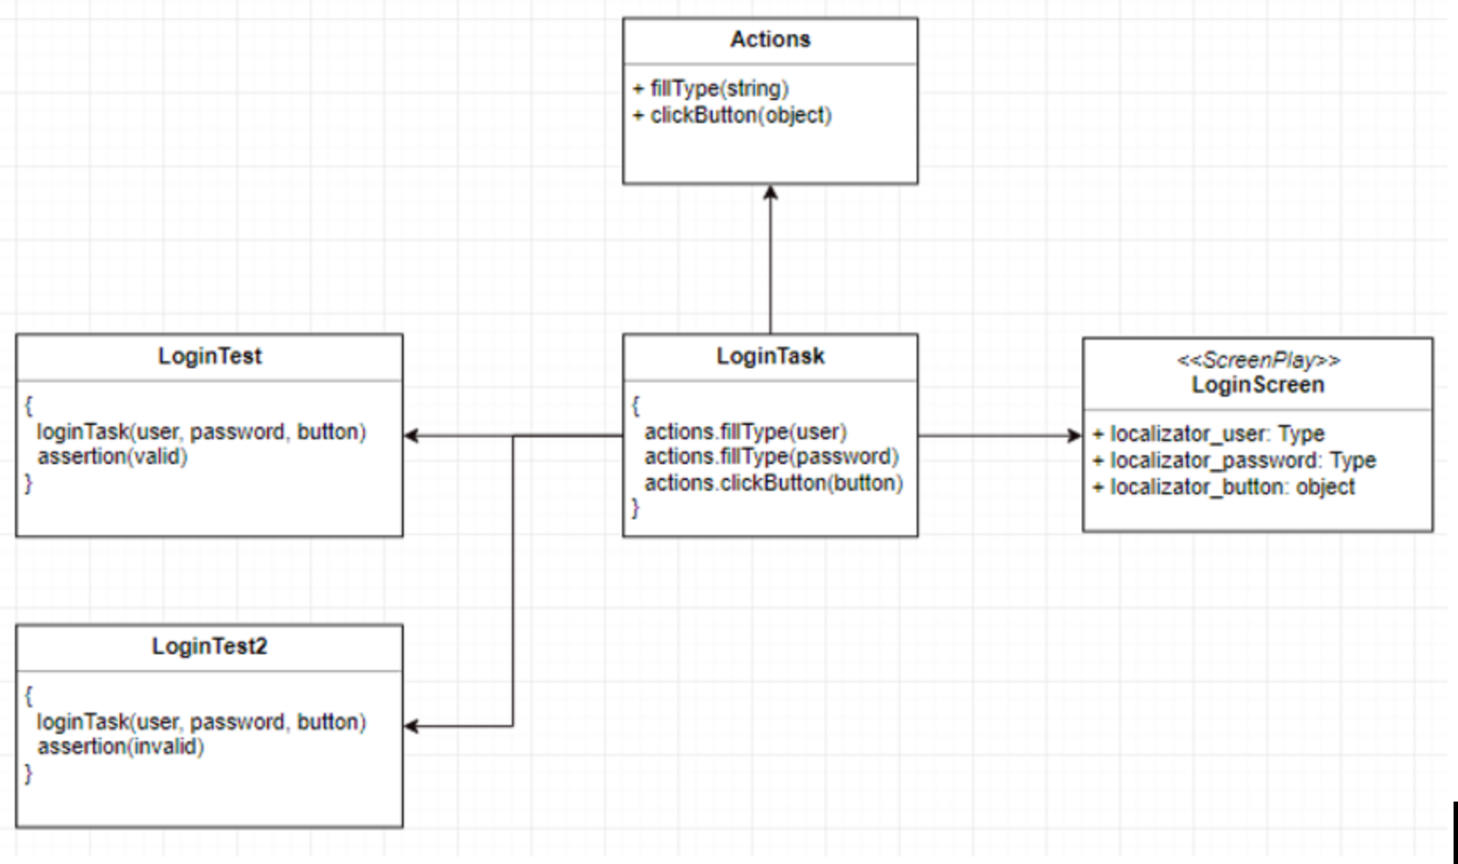
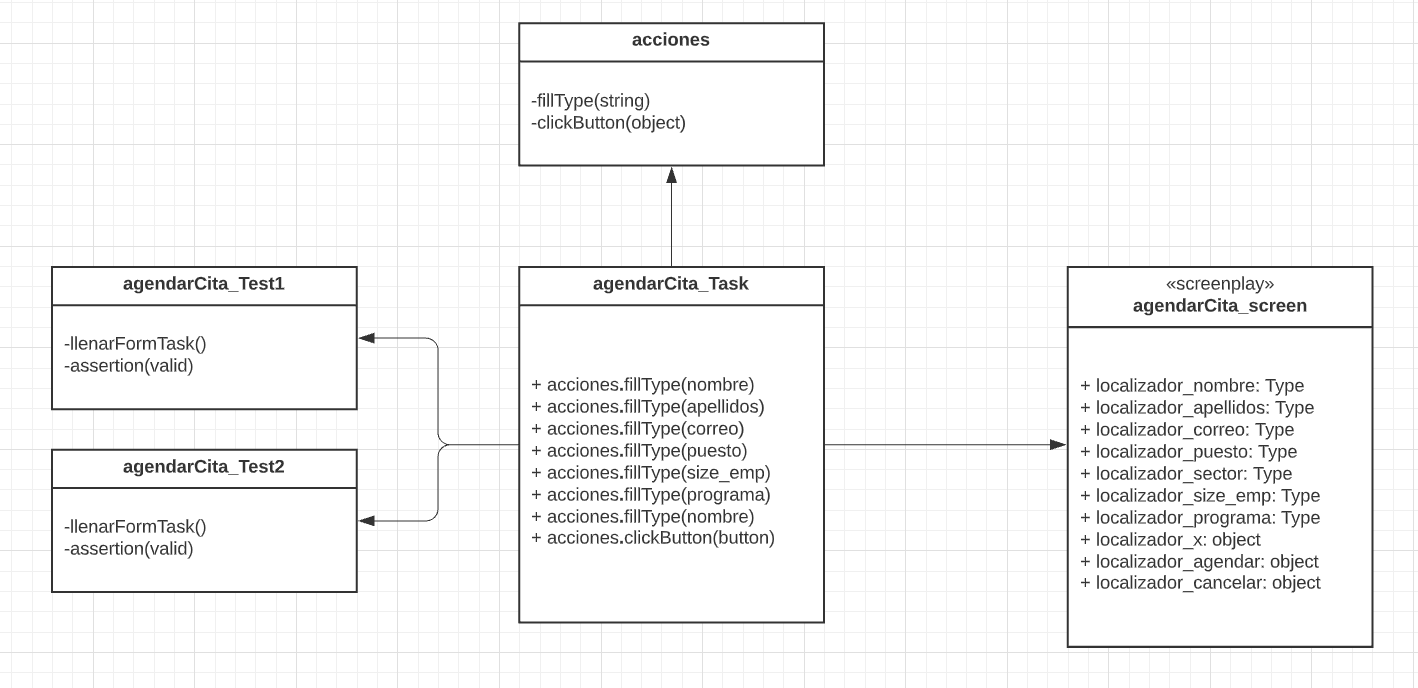
update README.md

diff --git a/Sesion-03/Ejemplo-01/README.md b/Sesion-03/Ejemplo-01/README.md
@@ -36,11 +36,11 @@ Explicaremos los tipos de patrones teniendo en cuenta 4 aspectos fundamentales: 
 - `Resultado:` Reducción  del tamaño de las clases de tal manera se estructura el proyecto de manera más organizada.
 
 
-Observa el siguiente ejemplo del diagrama de clases de la implementación del patrón `ScreenPlay`:
+Observa el siguiente ejemplo del diagrama de clases de la implementación del patrón `ScreenPlay` en la funcionalidad de `agendar cita` de la pagina web de BEDU (https://bedu.org/):
 
 <img src="assets/patron_screenplay.png" width="80%"> 
 
-> En este ejemplo se tiene la clase `LoginScreen` con únicamente los localizadores. Aparte se tiene la clase `Actions` con las acciones de la página de login. Luego se tiene una clase `LoginTask` que invoca a los localizadores junto con las acciones para definir el paso a paso de la prueba. Finalmente se tiene la clase `test`, que hace el llamado a `Logintask` enviando los parámetros del escenario de prueba.
+> En este ejemplo  se tiene la clase `agendarCita_screen` con únicamente los localizadores. Aparte se tiene la clase `acciones` con las acciones del formulario de agendar la cita. Luego se tiene una clase `agendarCita_Task` que invoca a los localizadores junto con las acciones para definir el paso a paso de la prueba. Finalmente se tiene la clase `agendarCita_Test1 y agendarCita_Test2`, que hace el llamado a `agendarCita_Task` enviando los parámetros del escenario de prueba.
 
 #### Patrón comandos: 
 - `Origen:` Existe cierta complejidad en el mantenimiento del proyecto de pruebas automatizadas en proyectos donde se ha aplicado el patrón `ScreenPlay`,o por el contrario,  la presencia de clases muy extensas al implementar el patrón de `PageObject`. Por lo cual tampoco se se cumple con __principio SOLID__ de responsabilidad simple por cada clase.
